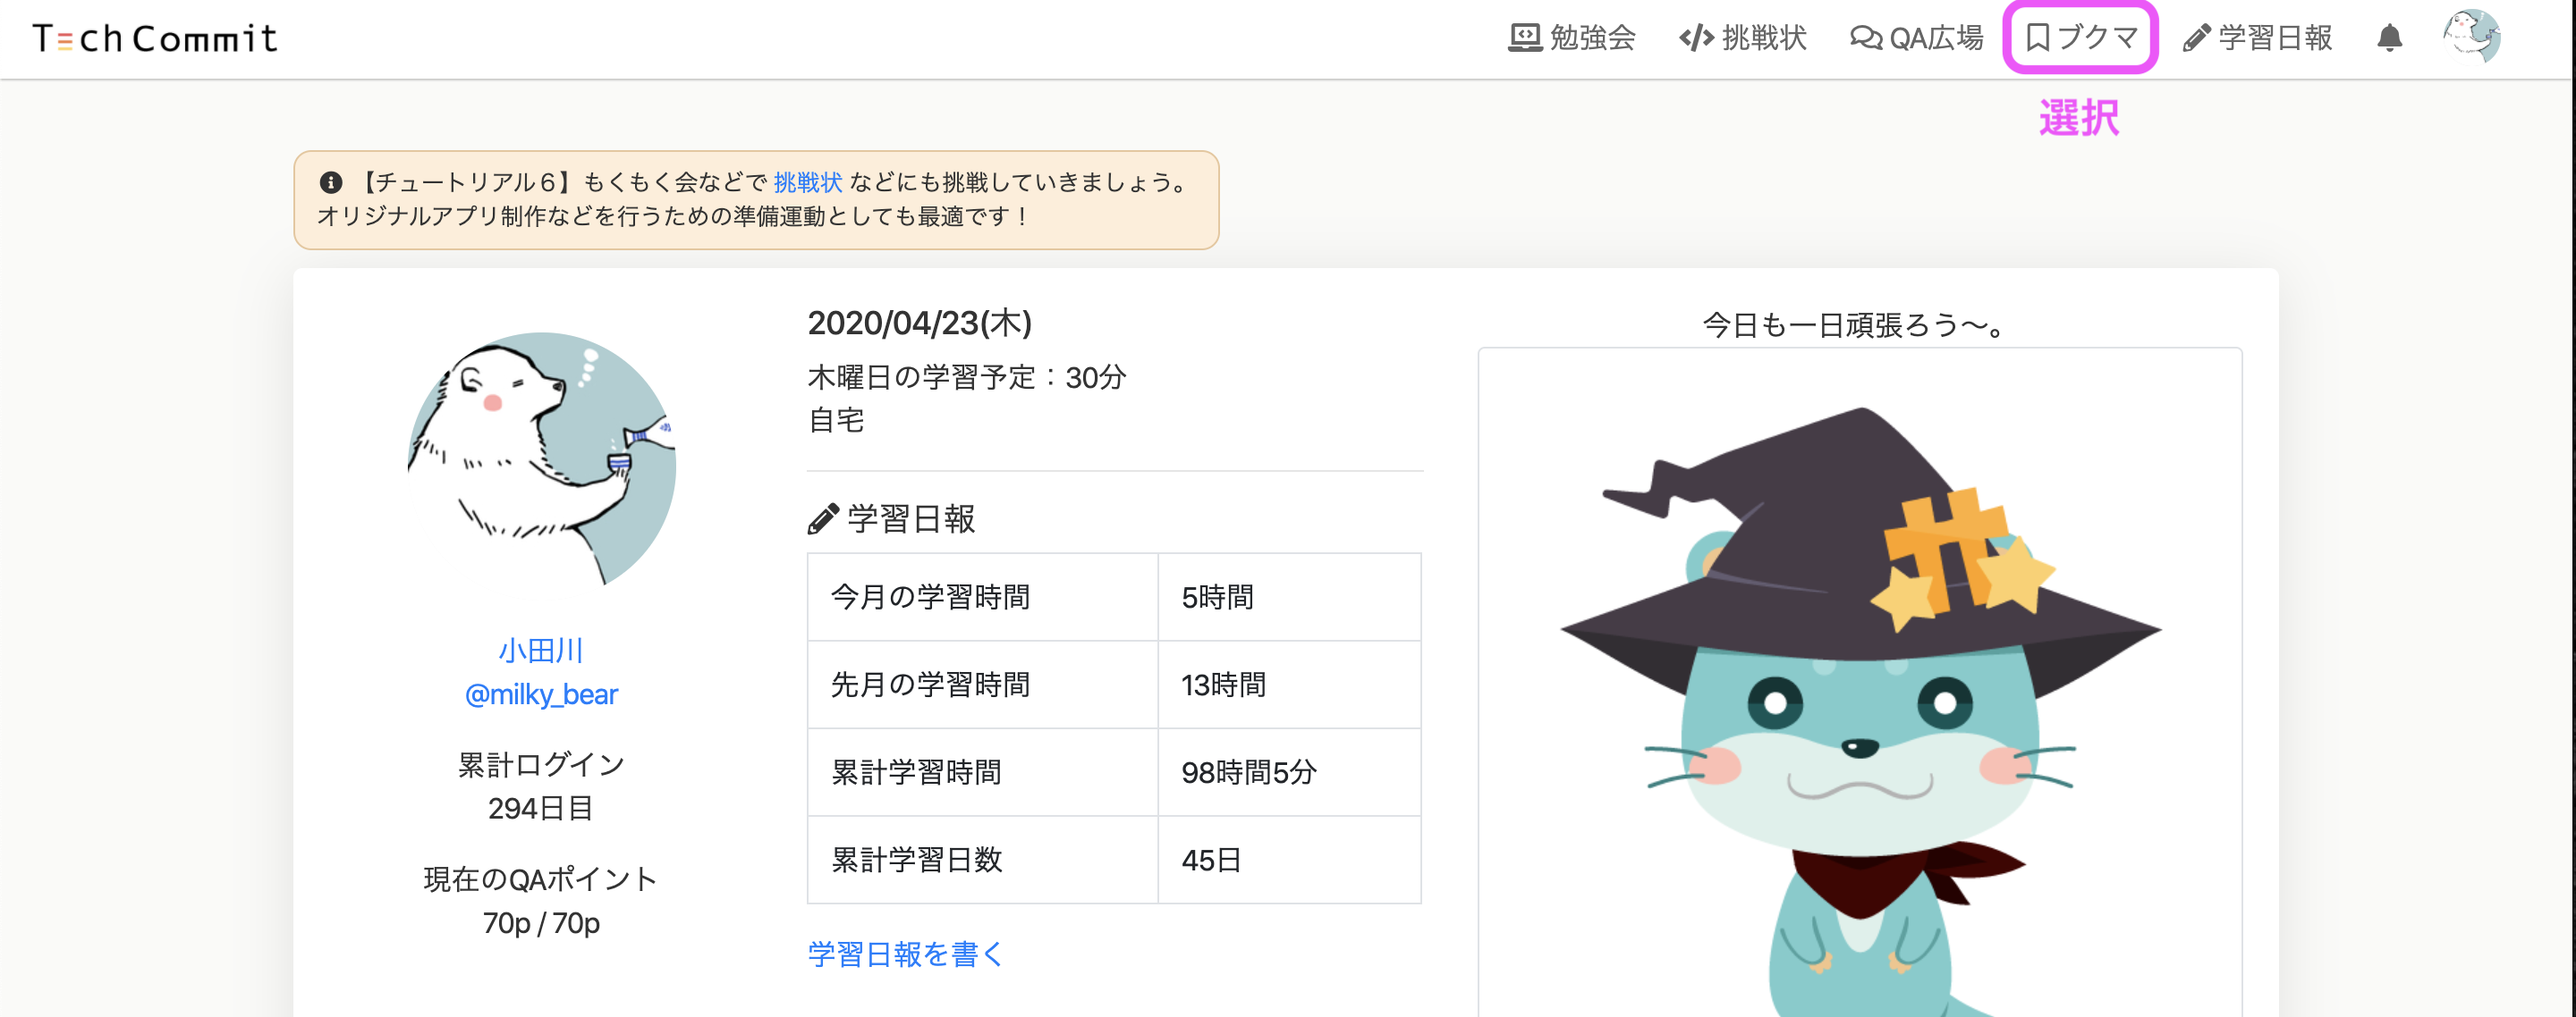
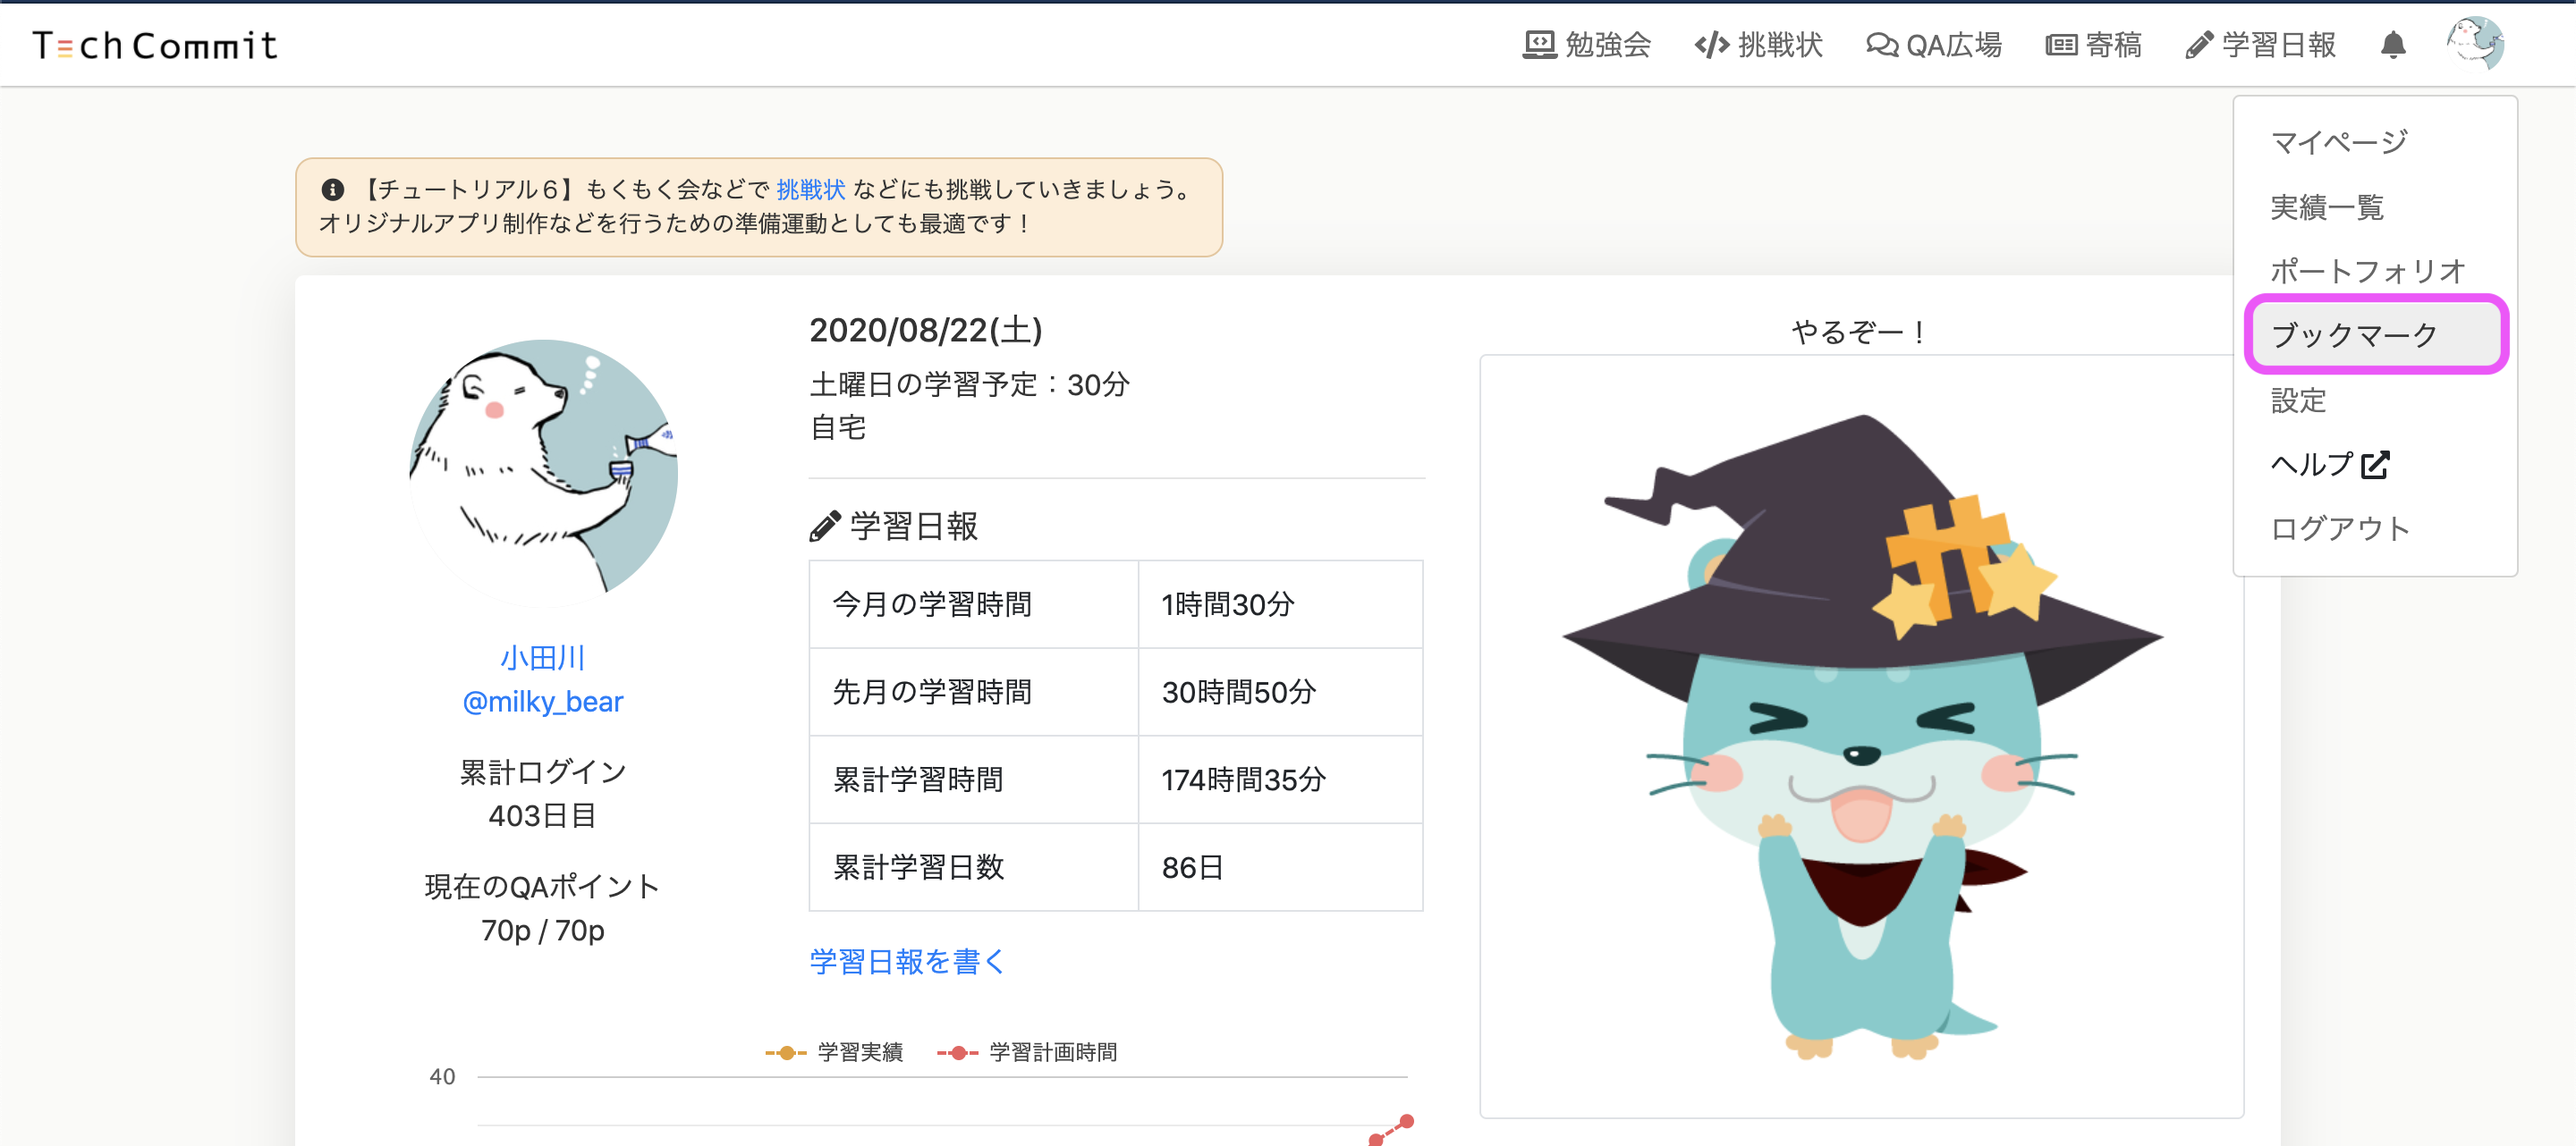
【Modify】活用ステップの削除や文章の修正

diff --git a/docs/index.md b/docs/index.md
@@ -1,29 +1,30 @@
 # TechCommitドキュメントサイトにようこそ！
 このサイトはコミュニティ型IT学習環境「[TechCommit](https://www.tech-commit.jp/)」を最大限活用するために、  
-**機能概要**や具体的なプログラミングの**学習段階に応じた活用例**などをまとめています。
+**機能概要**をまとめています。
+今後は具体的なプログラミングの**学習段階に応じた活用例**などもまとめていく予定です。
 
-今後の学習の道筋を押さえるとともに、TechCommitを100%活用して、プログラミング学習を楽しく効果的に**継続して**いきましょう！
+TechCommitを100%活用して、プログラミング学習を楽しく効果的に**継続して**いきましょう！
 
 ## TechCommitのコンセプト
 TechCommitはオンラインで**学びを遊ぶ、ITスキルの継続的学習環境**をコンセプトとしてサービスを開発・運用しています。  
 地方在住や学生の方でもイベントやSlackでのコミュニケーションなどを通じて、**仲間と楽しく継続的に学習して結果を出していく為**にご活用下さい。
 
-## 本サイトの見方
+## 本サイトの見方(メンバー向け)
 ### ツールの準備が済んでいない場合
-TechCommitではWebサイト以外にもSlack（チャットツール）とZoom（ビデオ通話ツール）を使用してサービスを提供しています。  
+TechCommitではWebサイト以外にもSlack（チャットツール）とZoom（ビデオ通話ツール）を使用してメンバーとコミュニケーションをとっています。  
 SlackとZoomの導入について確認しておきましょう。
 
 ▶ [Slackアプリのインストールとワークスペースへの参加](join-slack.md)  
-▶ [Zoomのインストールと基本操作](install-zoom.md)  
 ▶ [Slackチャンネルの参加方法](join-slack-channel.md)  
+▶ [Zoomのインストールと基本操作](install-zoom.md)  
 
 ### TechCommitの各機能の活用方法を知りたい場合
-▶ [QA広場の活用方法](qa-board.md)  
-▶ [挑戦状の活用方法](challenge.md)  
-▶ [ブックマークの活用方法](bookmark.md)  
-▶ [学習日報の活用方法](learning-report.md)  
-▶ 学習内容をPRしよう！学習ポートフォリオ機能（準備中）  
-▶ オリジナルアプリ管理機能（今後リリース予定）
+| 機能 | 概要 |
+| -----------| ----------- |
+| [学習日報](learning-report.md) | 学習内容を記録する機能です。学習日報をつけると学習時間がグラフとして見える化できるなどメリットがあります。 |
+| [QA広場](qa-board.md) | 質問掲示板です。学習で詰まってしまったら質問してみましょう。<br>未解決の質問があったら助けてあげましょう。 |
+| [挑戦状](challenge.md) | 課題に対して自分でコードを書いて提出する機能です。コードを書く力試しに利用しましょう。<br>成果物の提出後に、他の人の成果物を閲覧できるようになります。 |
+| [ブックマーク](bookmark.md) | 「役に立った！」と思ったサイトを保存してメンバーと共有できる機能です。<br>ブックマークしたページを[ポートフォリオページ](https://www.tech-commit.jp/your/portfolios)で一覧できます。 |
 
 サービスの利用方法等がわからない場合は、Slack内の[#02_利用方法の相談](https://techcommit.slack.com/archives/CJU6KST7H)チャンネルにてご質問ください。  
 TechCommit運営メンバーが対応いたします。
@@ -31,22 +32,22 @@ TechCommit運営メンバーが対応いたします。
 ## TechCommitで開催されるオンラインイベントについて
 TechCommitで開催されるオンラインイベントは大きく以下の２つに大別されます。
 
-- オンラインもくもく会(オンライン自習室)
-- 週末イベント(交流会や勉強会)
-
-「イベントがどのような形式、雰囲気なのか心配」という方は、ぜひ下記の記事を参考にして参加してみてください！
-
-▶ [オンラインもくもく会の活用方法](mokumoku.md)  
-▶ [週末イベントの活用方法](online-event.md)
+| イベント | 概要 |
+| -----------| ----------- |
+| [オンラインもくもく会](mokumoku.md) | 毎日20:00~22:00に開催しているオンラインの自習室です。<br>学習習慣を身に付けるために利用しましょう。 |
+| [週末イベント](online-event.md) | 毎週末に開催するオンラインのイベントです。交流会や講義形式の勉強会などを開催しています。<br>仲間を見つけたり、新しい知見を得るために参加しましょう。 |
 
 ## ソーシャルメディアの紹介
 ![TechCommit Note](images/index/note.png)
 
-Twitter、noteでお役立ち情報を発信していますのでぜひフォローしてください。  
-▶ [Twitter](https://twitter.com/TechCommit)  
-▶ [note](https://note.com/tech_commit) 
+### note
+[TechCommit Note](https://note.com/tech_commit)は現役ITエンジニアと駆け出しエンジニアの応援メディアです。様々な経営者やITエンジニアのキャリア観・思想をインタビューして配信したり、プログラミング学習コミュニティのTechCommit内で蓄積したITスキルに関する知見を発信しています！ 
 
-また、[Qiita Organization](https://qiita.com/organizations/tech-commit)に参加してTechCommitの所属メンバーとして記事を投稿できますので、  
+### Twitter
+ [Twitter](https://twitter.com/TechCommit)ではITに関するニュース、便利ツールの紹介、コミュニティの内で出た話題、イベント情報などを発信しています。
+
+### Qiita
+[Qiita Organization](https://qiita.com/organizations/tech-commit)に参加してTechCommitの所属メンバーとして記事を投稿できますので、  
 参加をご希望される場合は、Slackの@TechCommit運営までQiita IDをDMでお送りください。  
 
 ## 本サイトの改善/修正案を受付しております

diff --git a/docs/bookmark.md b/docs/bookmark.md
@@ -4,35 +4,35 @@
 ポートフォリオ機能などで自分が過去に「何に興味を持ったのか」や「どんな問題を解決したのか」というPRにもつながるので、コレはすごく良い学びになったな！と思ったものは積極的にブックマークしてみましょう。
 
 ## ブックマーク共有の方法
-ブックマーク共有機能へは、トップページ右上のグローバルメニューの[ブクマ]から行くことができます。
+ブックマーク共有機能へは、トップページ右上のグローバルメニューの**ブックマーク**からアクセスできます。
 
 ![ブックマークへの導線](images/bookmark/route-to-bookmark.png)
 
-[ブクマ]を選択すると「皆のブックマーク」という画面が表示されます。
+**ブックマーク**を選択すると「皆のブックマーク」という画面が表示されます。
 
 ![ブックマーク作成への導線](images/bookmark/route-to-create-bookmark.png)
 
-新規ブックマークを作成するには、[新規作成]を選択してください。  
+新規ブックマークを作成するには、**新規作成**を選択してください。  
 ブックマーク新規作成画面に遷移します。
 
 ![ブックマーク作成](images/bookmark/create-bookmark.jpg)
 
 ブックマーク新規作成画面では、URL欄、コメント欄、Slackへの投稿設定があります。共有したいページのURLを貼り、内容や便利だと思った理由などを簡潔に記述してください。
 
-Slackチャンネルの「ブックマーク報告」で共有したい場合は、「Slackにも投稿する」というチェックボックスにチェックをお願いします。
+Slackチャンネルの「ブックマーク報告」で共有したい場合は、**Slackにも投稿する**というチェックボックスにチェックをお願いします。
 
 
-[投稿] をクリックすると、ブックマークが作成・共有され「自分のブックマーク」へ移動します。
+**投稿**を選択すると、ブックマークが作成・共有され「自分のブックマーク」へ移動します。
 
-[皆のブックマーク]リンクをクリックして、自分のブックマークがどう表示されているか確認してみましょう。
+**皆のブックマーク**を選択して、自分のブックマークがどう表示されているか確認してみましょう。
 
 ![自分のブックマーク](images/bookmark/my-bookmark.png)
 
-「皆のブックマーク」を確認すると、自分のブックマークが共有されているのがわかりますね。
+**皆のブックマーク**を確認すると、自分のブックマークが共有されているのがわかりますね。
 
 ![皆のブックマーク](images/bookmark/everyone-bookmark.png)
 
-なお、 「Slackにも投稿」にチェックを入れた場合は、Slackの「ブックマーク報告」チャンネルにも同時投稿されます。
+なお、 **Slackにも投稿**にチェックを入れた場合は、Slackの[#ブックマーク報告](https://techcommit.slack.com/archives/CGB2JAQEQ)チャンネルにも同時投稿されます。
 
 ![Slackに投稿](images/bookmark/post-to-slack.jpg)
 

diff --git a/docs/learning-report.md b/docs/learning-report.md
@@ -4,7 +4,9 @@
 学習時間、学んだ技術などを記録することができます。  
 また、どのようなことを学んだかという詳細な記録をコメントで残しておくことができます。
 
-現在は準備段階ですが、どのような技術をどのくらい学んだか集計する機能も実装予定で、**ポートフォリオの一部として活用**することができます。
+どのような技術をどのくらい学んだか集計する機能もあり、**ポートフォリオの一部として活用**することができます。
+
+![学習日報グラフ](images/learning-report/learning-report-graph.png)
 
 ## 学習日報をつけるメリットについて
 学習日報をつけるメリットは、以下のようなものがあります。

diff --git a/docs/mokumoku.md b/docs/mokumoku.md
@@ -1,6 +1,3 @@
-TechCommitでは毎日オンラインもくもく会を開催していますが、  
-存在を知らない、もしくはまだ参加したことがない方がたくさんいらっしゃると思います。
-
 ## もくもく会とは？
 IT業界の勉強会でよく聞く「もくもく会」ですが、馴染みのない方もいるでしょう。  
 一言でいえば、もくもく会とは「**自習型の勉強会**」を総称した呼び方です。
